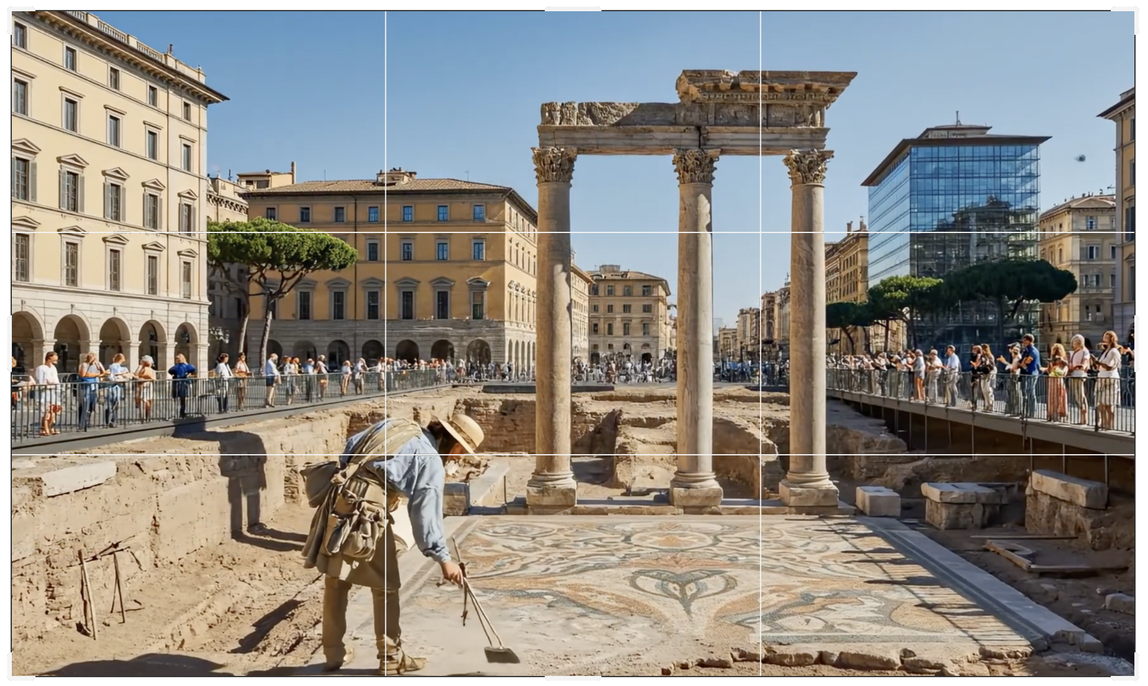
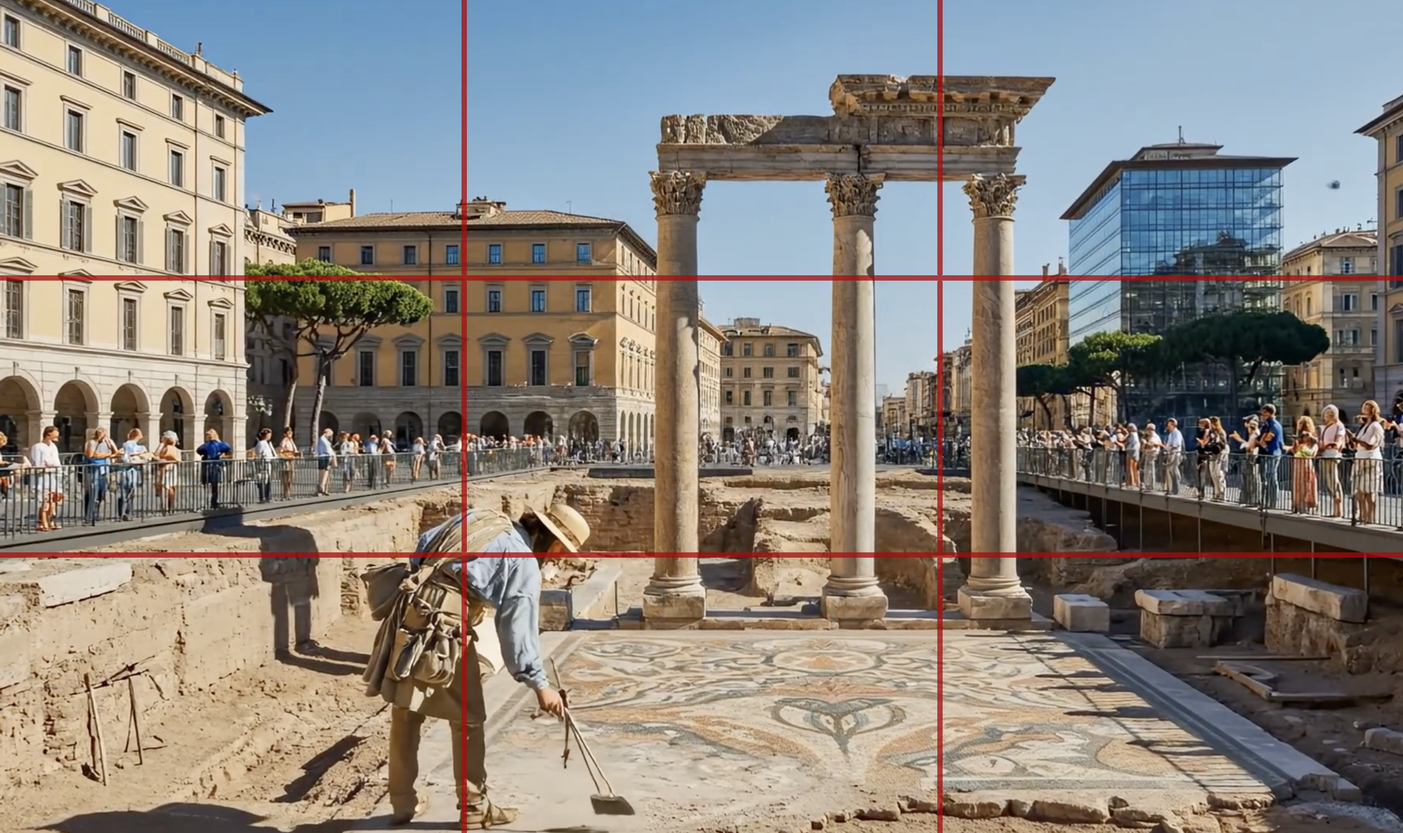
s

diff --git a/planos.html b/planos.html
@@ -67,7 +67,7 @@
 
 <section class="hero">
  <h1>Planos (enquadramentos)</h1>
- <p>Esta página usa <strong>apenas</strong> os ficheiros do último <code>Planos.zip</code> (nomes originais). Cada plano mostra a foto e o vídeo (pessoas), quando existirem.</p>
+ <p>Os planos são a escolha da quantidade de cena que aparece na imagem - do plano geral, que mostra o contexto, ao plano próximo, que destaca detalhes e emoção.</p>
 </section>
 
 <section class="section">
@@ -78,7 +78,7 @@
     <li><strong>Planos médios</strong> - têm valor narrativo: mostram ação e relação entre personagens, sem perder o contexto.</li>
     <li><strong>Planos próximos</strong> - são expressivos: aproximam-nos do rosto ou do detalhe e tornam a imagem mais íntima.</li>
   </ul>
-  <p class="note"><strong>Nota:</strong> regra prática de sala - quanto mais pormenor, mais tempo o espectador precisa para "ler" a imagem; quanto mais geral, mais rápida é a leitura.</p>
+  <p class="note"><strong>Regra prática:</strong>  quanto mais pormenor, mais tempo o espectador precisa para "ler" a imagem; quanto mais geral, mais rápida é a leitura.</p>
 </section>
 
 
@@ -184,6 +184,7 @@
 <section class="section">
  <h2>Plano Próximo (Médio Curto)</h2>
  <p>Mais emoção/expressão (peito/ombros).</p>
+  <p class="note"><strong>Leitura: longa (a expressão e os detalhes pedem mais atenção).</strong></p>
  
  <figure class="figure">
  <img src="assets/exemplos/planos_foto/05_Plano_Proximo.png" alt="Exemplo de Plano Próximo (Médio Curto) (foto)." loading="lazy" />
@@ -244,6 +245,19 @@
 
 
  
+
+<section class="section">
+ <h2>Mini‑tarefa (Planos)</h2>
+ <div class="note">
+  <p>Realiza a tarefa em fotografia e em vídeo: no total, produz 3 fotografias e 3 vídeos. No conjunto final, todos os planos têm de estar representados.</p>
+  <ul>
+   <li><strong>Fotografia (3):</strong> cada fotografia deve mostrar um plano diferente, bem identificado pelo enquadramento (ex.: geral, médio, grande plano, etc.).</li>
+   <li><strong>Vídeo (3):</strong> grava 3 vídeos aplicando os planos que não ficaram representados nas fotografias (ou seja, os planos “em falta” após as 3 fotos). Assim, ao juntar fotografias + vídeos, ficam todos os planos cobertos.</li>
+  </ul>
+  <p>Mantém, sempre que possível, o mesmo motivo/cenário para facilitar a comparação entre planos.</p>
+ </div>
+</section>
+
 </main>
 
 <footer>

diff --git a/angulos.html b/angulos.html
@@ -73,18 +73,18 @@
  <h2>Esquema</h2>
  <p>Consulta o esquema para perceber a posição relativa da câmara.</p>
  <figure class="figure">
- <img src="assets/img/angulos_esquema.png" alt="Esquema dos ângulos da câmara: picado, normal e contra-picado." loading="lazy" / class="mediaRound">
+ <img src="assets/img/angulos_esquema.png" alt="Esquema dos ângulos da câmara: picado, normal e contra-picado." loading="lazy" class="mediaRound" />
  <figcaption>Esquema - Ângulos da câmara</figcaption>
  </figure>
 </section>
 
-id="exemplos-angulos">
+<section class="section" id="exemplos-angulos">
   <h2>Exemplos - Ângulos</h2>
   <p class="muted">Vê a diferença entre os ângulos e compara fotografia e vídeo.</p>
 
   <div class="examples-grid">
     <article class="example-card">
-      <h3>Picado</h3>
+      <h3>Ângulo Picado</h3>
       <div class="stack">
         <figure class="figure">
           <img src="assets/exemplos/angulos/angulo_picado_foto.png" alt="Fotografia - exemplo de ângulo picado">
@@ -101,7 +101,7 @@ id="exemplos-angulos">
     </article>
 
     <article class="example-card">
-      <h3>Normal</h3>
+      <h3>Ângulo Normal</h3>
       <div class="stack">
         <figure class="figure">
           <img src="assets/exemplos/angulos/angulo_normal_foto.png" alt="Fotografia - exemplo de ângulo normal">
@@ -118,7 +118,7 @@ id="exemplos-angulos">
     </article>
 
     <article class="example-card">
-      <h3>Contra-picado</h3>
+      <h3>Ângulo Contra-picado</h3>
       <div class="stack">
         <figure class="figure">
           <img src="assets/exemplos/angulos/angulo_contrapicado_foto.png" alt="Fotografia - exemplo de ângulo contra-picado">
@@ -134,6 +134,12 @@ id="exemplos-angulos">
       </div>
     </article>
   </div>
+</section>
+
+
+<section class="section">
+  <h2>Mini‑tarefa (Ângulos)</h2>
+  <p class="note">Tira fotografias ou grava vídeos aplicando, em cada captação, um dos ângulos apresentados. Procura variar os enquadramentos e garantir que cada ângulo fica claramente identificado no resultado final.</p>
 </section>
 
 </main>

diff --git a/tercos.html b/tercos.html
@@ -66,7 +66,7 @@
 
 <section class="hero">
  <h1>Regra dos Terços</h1>
- <p>Divide o enquadramento em 3×3. Coloca o sujeito ou elementos importantes nas interseções e linhas para criar equilíbrio e interesse visual.</p>
+ <p>Divide o enquadramento numa grelha de 3×3. Coloca o sujeito ou elementos importantes nas interseções e linhas para criar equilíbrio, interesse e força visual.</p>
 </section>
 
 
@@ -95,7 +95,7 @@
  <li><strong>Simetria</strong> (arquitetura, reflexos, padrões) pode funcionar melhor centrada.</li>
  <li>Um sujeito no centro pode criar um efeito <strong>mais estático</strong> e “solene” - útil em algumas intenções.</li>
  </ul>
- <p class="note"><strong>Nota:</strong> pensa na regra dos terços como um <em>guia</em> para começar, não como uma obrigação.</p>
+ <p class="note"><strong>Dica:</strong> pensa na regra dos terços como um <em>guia</em> para começar, não como uma obrigação.</p>
 </section>
 <section class="section">
  <h2>Exemplo (enquadramento horizontal)</h2>
@@ -126,10 +126,9 @@
 </section>
 
 <section class="section">
- <h2>Mini‑tarefa</h2>
- <p class="note"><strong>Exercício:</strong> tira uma foto (ou faz um frame de vídeo) centrado e depois refaz aplicando a regra dos terços. Compara em 2 - 3 linhas.</p>
+ <h2>Mini‑tarefa (Regra dos Terços)</h2>
+ <p class="note">Tira duas fotografias do mesmo motivo e no mesmo cenário, mantendo, sempre que possível, a mesma distância, para que a comparação seja clara: uma em enquadramento vertical (retrato) e outra em enquadramento horizontal (paisagem).<br><br>Em cada uma dessas duas versões, faz primeiro uma fotografia com o motivo principal centrado no enquadramento e, de seguida, refaz a mesma fotografia aplicando a regra dos terços, colocando o motivo principal numa das interseções das linhas (ou alinhado com uma das linhas dos terços).</p>
 </section>
-
 
 </main>
 

diff --git a/index.html b/index.html
@@ -65,7 +65,7 @@
 <section class="hero">
  <h1>Enquadramento e composição em fotografia e vídeo</h1>
  <div class="introList">
-  <p class="introLead">Site educativo para aprender a escolher:</p>
+  <p class="introLead">Neste site vais descobrir, de forma simples e prática, técnicas de fotografia e de gravação de vídeo., tais como:</p>
   <ul class="introBullets">
     <li><strong>Planos</strong> (Tamanho do Enquadramento);</li>
     <li><strong>Ângulos</strong> (Ponto de Vista);</li>
